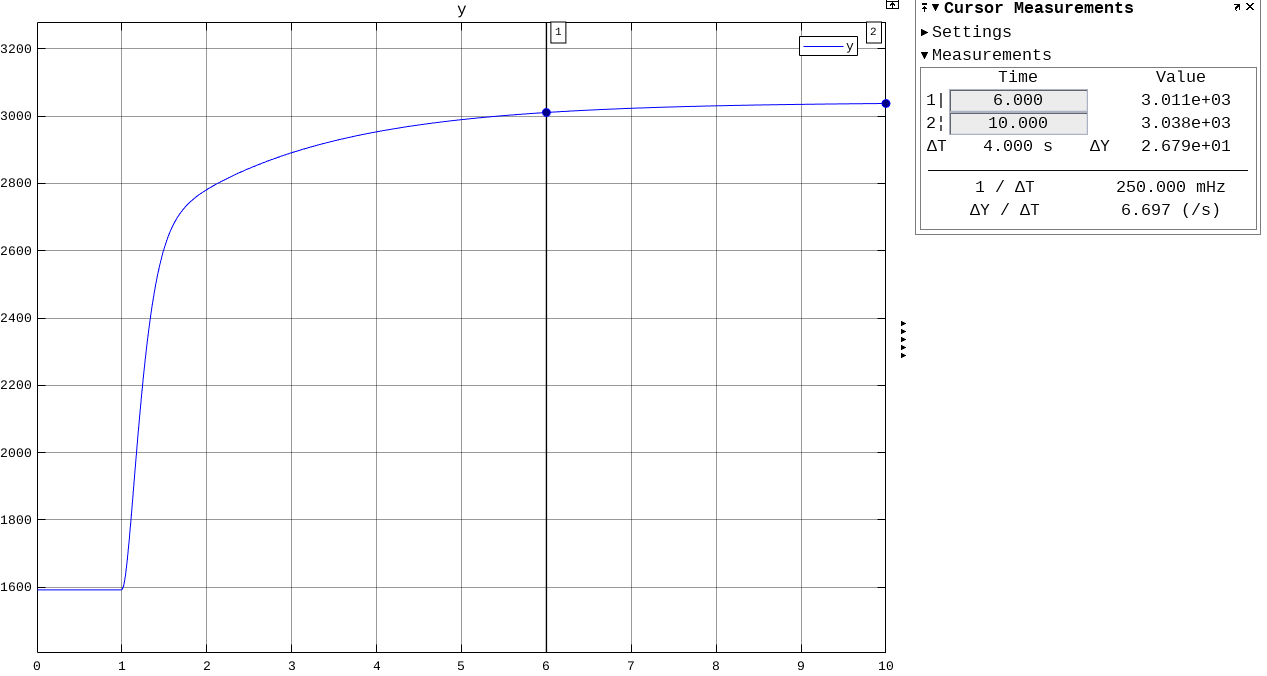
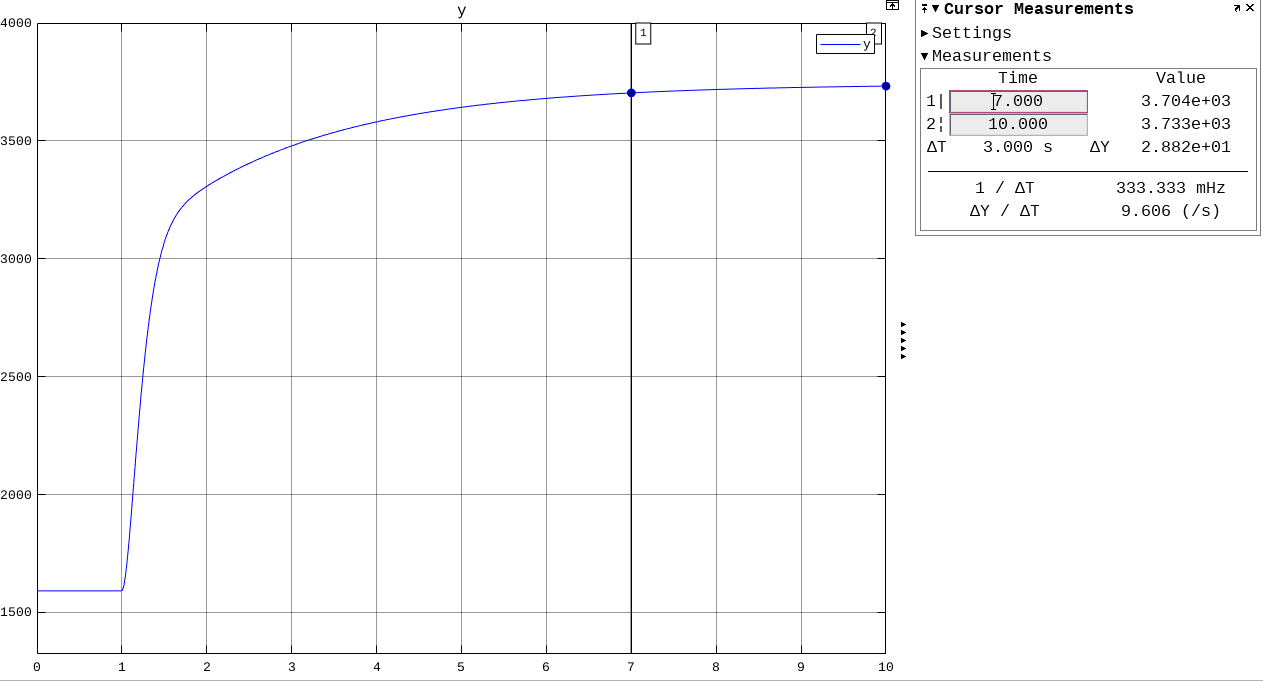
fix valore W in punti opzionali

diff --git a/latex/ProgettoAO.tex b/latex/ProgettoAO.tex
@@ -302,12 +302,12 @@ producendo un'uscita di questo tipo:
 In questo caso una risposta anomala era in parte prevedibile per via della velocità iniziale estremamente elevata.\\ \\
 \textbf{(6.3)}
 Nel testare il sistema con variazioni del valore di riferimento W, abbiamo riscontrato una situazione simile a quella del punto precedente.
-Nonostante il sistema non presenti anomalie particolari anche per riferimenti W molto alti, il vincolo sul tempo di assestamento all'1\% (6 secondi) cessa di essere soddisfatto per riferimenti $W > 1400$
+Nonostante il sistema non presenti anomalie particolari anche per riferimenti W molto alti, il vincolo sul tempo di assestamento all'1\% (6 secondi) cessa di essere soddisfatto per riferimenti $W > 2150$
 
 \begin{figure}[h!]
     \begin{center}
         \includegraphics[scale=0.35]{img/variazioni_W.png}
-        \caption{Risposta del sistema ad un riferimento $W = 1450$}
+        \caption{Risposta del sistema ad un riferimento $W = 2150$}
     \end{center}
 \end{figure}
 
